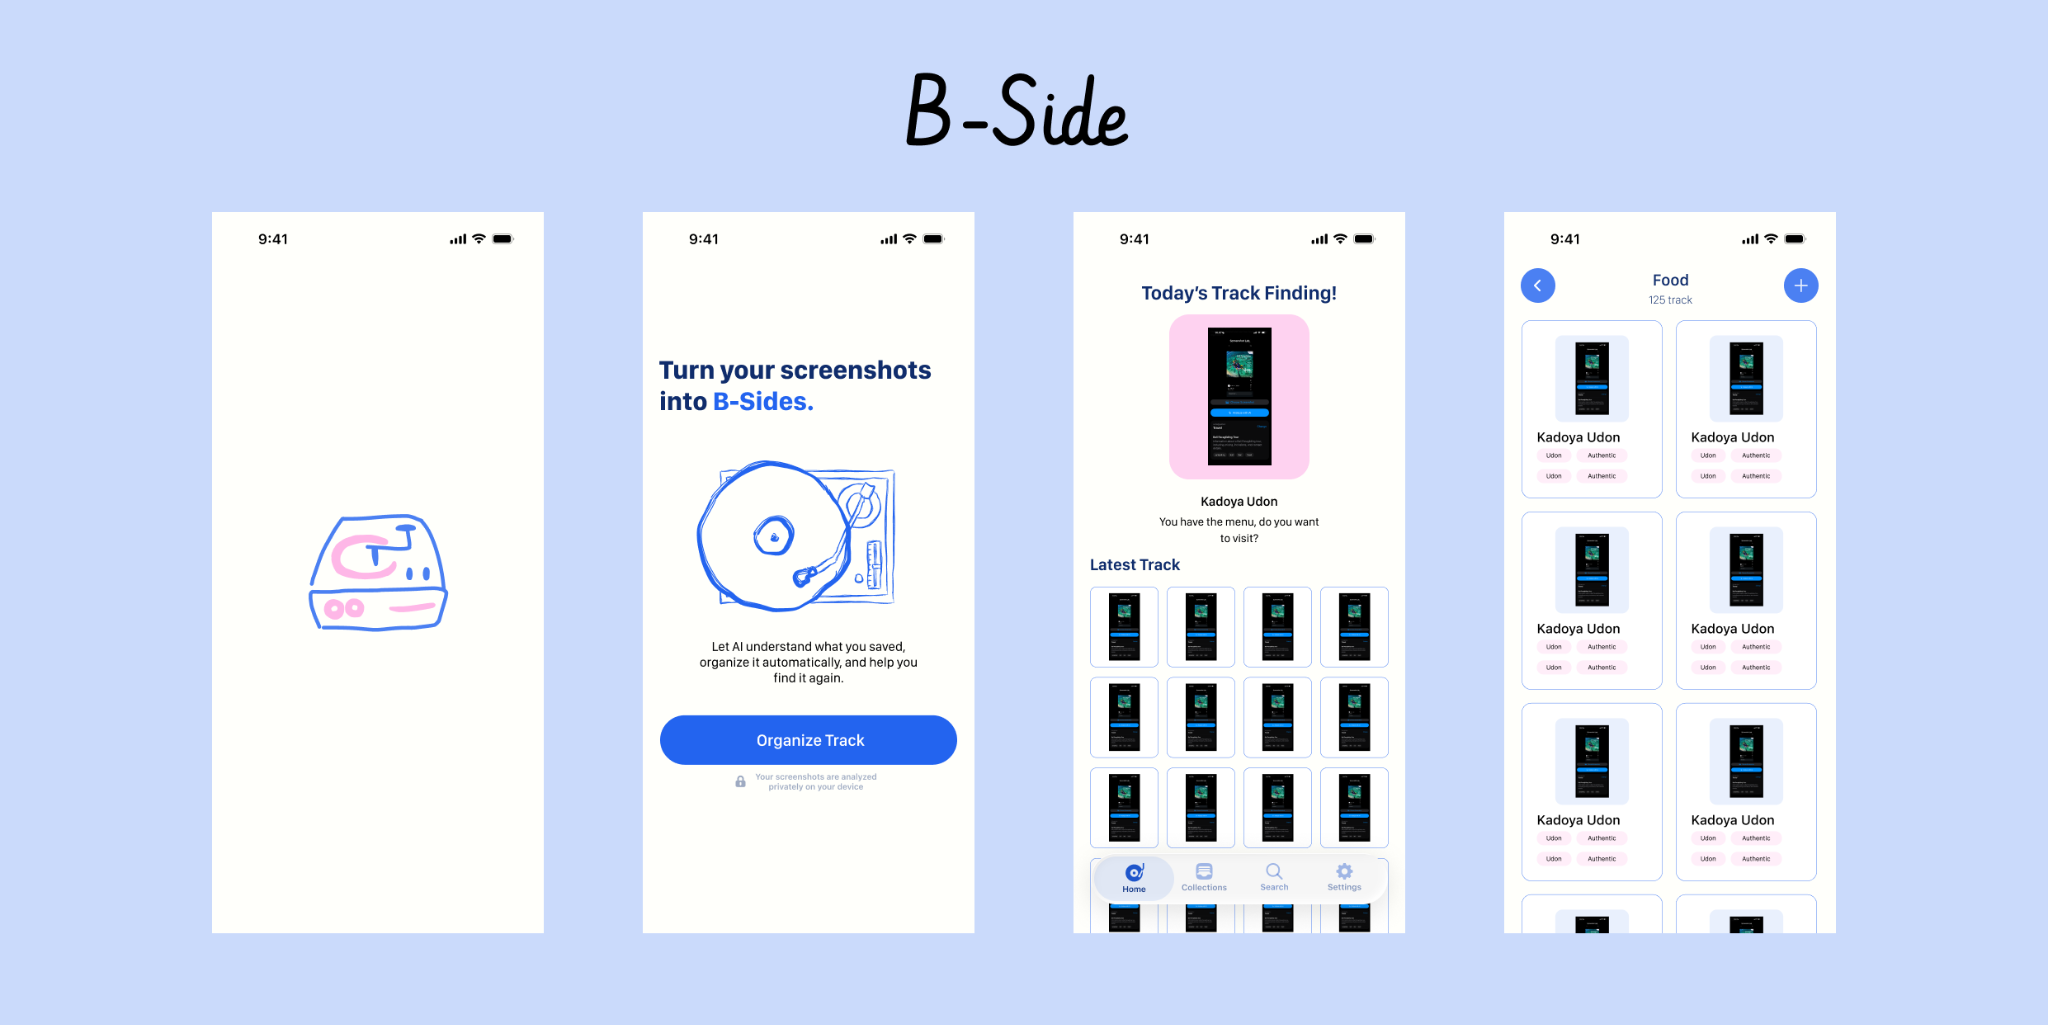
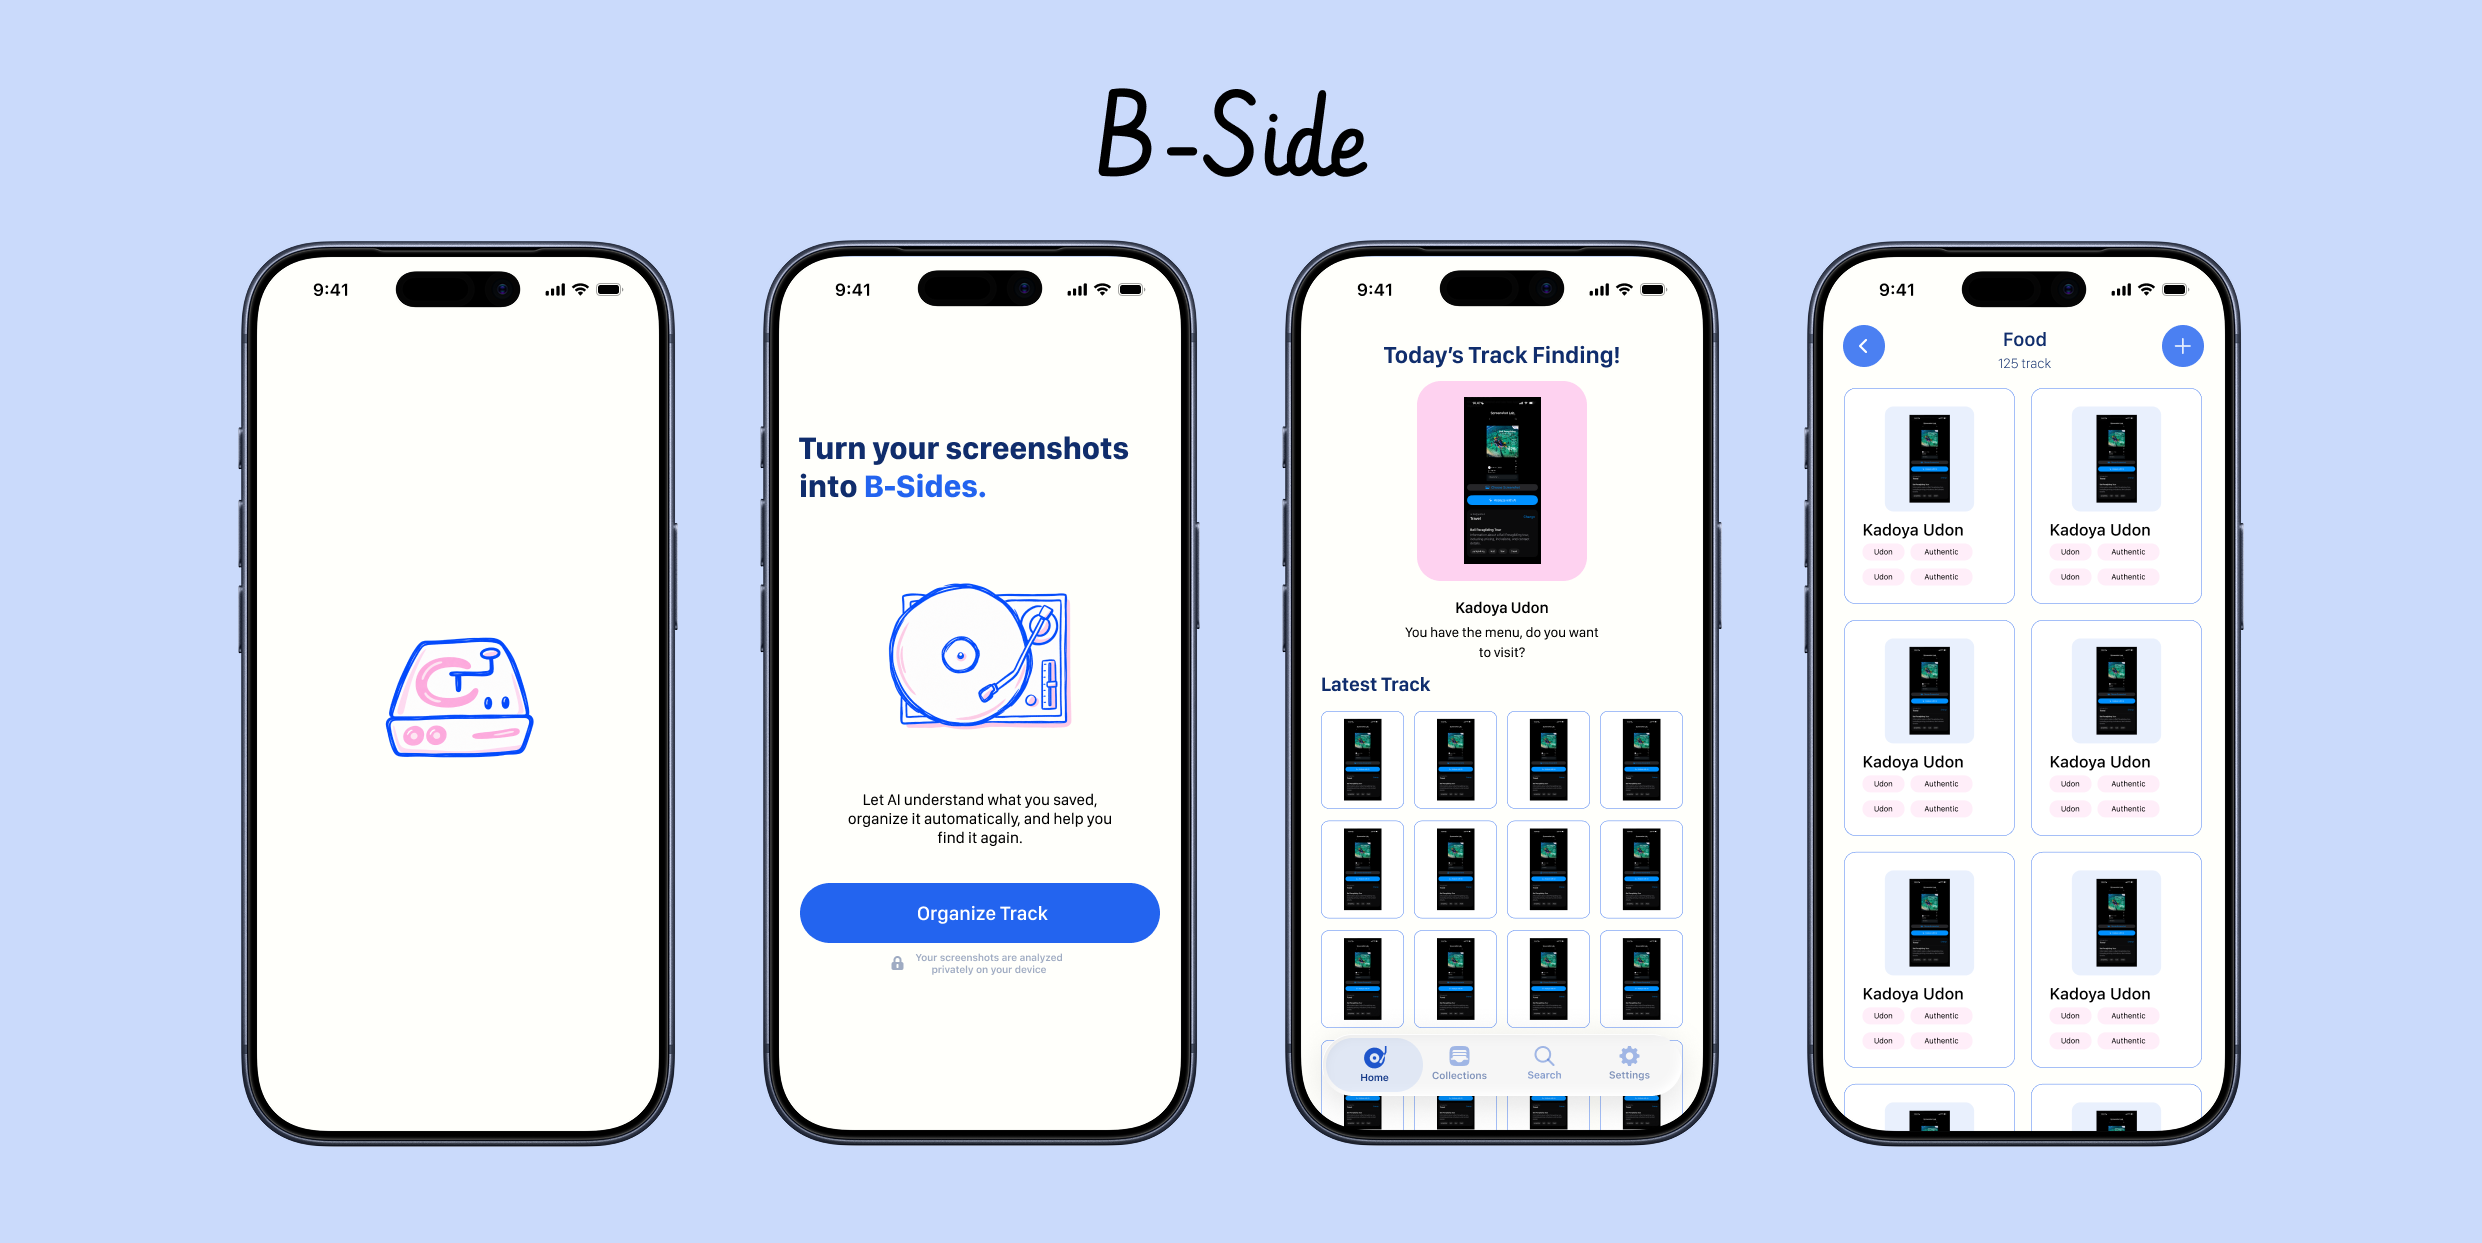
add bloom, refined cover b side and rawrndry

diff --git a/src/content/bloom.html b/src/content/bloom.html
@@ -1,0 +1,108 @@
+<h1>Bloom</h1>
+
+<div class="hero-showcase">
+  <img src="image/bloom/bloom-banner.png" alt="Bloom website concept showing the lavender landing page, flower mascot, and mobile well-being screens">
+</div>
+
+<div class="section-block">
+  <h2 class="section-title">Project Overview</h2>
+  <p>Bloom is a responsive postpartum mental well-being website concept for mothers in Indonesia. It brings together gentle emotional check-ins, a screening experience, progress tracking, calming activities, and ways to reach out for support in one welcoming space.</p>
+  <p>The concept uses the Edinburgh Postnatal Depression Scale (EPDS) as a future screening framework, but screening is not a diagnosis. The designed prototype presents a clearly labeled demonstration experience while a real clinical implementation would require a validated questionnaire, reviewed scoring, and appropriate referral and privacy safeguards.</p>
+  <p>I shaped the product direction, planned the core journeys, designed the screens in Figma with AI-assisted tools, and developed and iterated on the web prototype using Berrry.app.</p>
+</div>
+
+<div class="section-block">
+  <h2 class="section-title">The Problem</h2>
+  <div class="problem-box">
+    <h3>Emotional support should not end with a screening result</h3>
+    <p>After childbirth, mothers may experience exhaustion, unfamiliar emotional changes, or difficulty asking for help. A single questionnaire can raise awareness, but it does not automatically explain the next step or make everyday support easier to access.</p>
+  </div>
+  <p>The question behind Bloom was: how might a digital experience help a mother recognize how she feels, reflect on changes over time, and move from awareness toward practical and professional support without making her feel judged or diagnosed?</p>
+</div>
+
+<div class="section-block">
+  <h2 class="section-title">From Idea to Scope</h2>
+  <p>I developed Bloom around a connected journey rather than a one-time test: begin with a gentle check-in, revisit patterns, choose a supportive action, and know where to find human care. For the hackathon, I prioritized a coherent web experience with a manageable set of meaningful features.</p>
+  <div class="process-grid">
+    <div class="process-step">
+      <div class="step-header"><span class="step-number">1</span><h3 class="step-title">Problem &amp; framing</h3></div>
+      <p class="step-desc">Defined the gap between screening awareness and ongoing, accessible emotional support for postpartum mothers.</p>
+    </div>
+    <div class="process-step">
+      <div class="step-header"><span class="step-number">2</span><h3 class="step-title">Core experience</h3></div>
+      <p class="step-desc">Mapped a journey linking feelings check-in, My Journey history, Calm Corner, Bloom Buddy, and professional support.</p>
+    </div>
+    <div class="process-step">
+      <div class="step-header"><span class="step-number">3</span><h3 class="step-title">UI/UX design</h3></div>
+      <p class="step-desc">Created desktop and mobile layouts with a flower mascot, spacious cards, reassuring copy, and a soft pastel visual system.</p>
+    </div>
+    <div class="process-step">
+      <div class="step-header"><span class="step-number">4</span><h3 class="step-title">AI-assisted build</h3></div>
+      <p class="step-desc">Translated the Figma direction into a Berrry web prototype, then iterated on navigation, persistence, interaction, and feature scope.</p>
+    </div>
+  </div>
+</div>
+
+<div class="section-block">
+  <h2 class="section-title">Experience Design</h2>
+  <p>Bloom's core path starts with how the mother feels today. From there, the interface connects a gentle screening demonstration with saved-history concepts and everyday activities, while keeping professional help within reach.</p>
+  <div class="experience-grid">
+    <div class="experience-item"><span class="experience-count">01</span><h3>Check in</h3><p>Express a feeling or explore the non-diagnostic screening flow.</p></div>
+    <div class="experience-item"><span class="experience-count">02</span><h3>Reflect</h3><p>Look back on dated emotional check-ins and assessment history.</p></div>
+    <div class="experience-item"><span class="experience-count">03</span><h3>Take a pause</h3><p>Try breathing, grounding, or other low-effort calming tools.</p></div>
+    <div class="experience-item"><span class="experience-count">04</span><h3>Reach out</h3><p>Find human support or prepare to ask someone for help.</p></div>
+  </div>
+</div>
+
+<div class="section-block">
+  <h2 class="section-title">Interface Direction</h2>
+  <p>The desktop screens combine a lavender hero, small flower icons, rounded feature cards, and a clear navigation system. The screening page intentionally feels like part of the same supportive experience rather than a separate clinical form.</p>
+  <figure class="case-visual">
+    <img src="image/bloom/bloom-desktop-exploration.png" alt="Bloom desktop Figma screens showing the landing page, mood dashboard, and feelings check-in questionnaire" loading="lazy">
+    <figcaption>Desktop exploration: welcome, dashboard, and screening. <a href="image/bloom/bloom-desktop-exploration.png" target="_blank" rel="noopener noreferrer">View full-size image ↗</a></figcaption>
+  </figure>
+  <p>My Journey, Calm Corner, and Support extend the same visual language with a rounded-bar feelings chart, interactive breathing concept, and a clearly separated urgent-help panel.</p>
+  <figure class="case-visual">
+    <img src="image/bloom/bloom-core-features.png" alt="Bloom desktop Figma screens for mood history, breathing and calming activities, and support resources" loading="lazy">
+    <figcaption>Core feature screens: reflection, regulation, and support. <a href="image/bloom/bloom-core-features.png" target="_blank" rel="noopener noreferrer">View full-size image ↗</a></figcaption>
+  </figure>
+</div>
+
+<div class="section-block">
+  <h2 class="section-title">Responsive Experience</h2>
+  <p>Mobile is not simply a smaller desktop layout. The welcome screen gives the mascot room to introduce Bloom, while subsequent pages prioritize one task at a time and use five persistent navigation destinations: Home, Check, Journal, Calm, and Help.</p>
+  <figure class="case-visual">
+    <img src="image/bloom/bloom-mobile-screens.png" alt="Six Bloom mobile Figma screens: welcome, dashboard, screening, journey, calm corner, and support" loading="lazy">
+    <figcaption>Mobile screens designed for simple, repeatable check-ins. <a href="image/bloom/bloom-mobile-screens.png" target="_blank" rel="noopener noreferrer">View full-size image ↗</a></figcaption>
+  </figure>
+</div>
+
+<div class="section-block">
+  <h2 class="section-title">Key Features &amp; Product Decisions</h2>
+  <ul>
+    <li><strong>Screening without diagnosis:</strong> Design the EPDS-inspired pathway to provide context and next steps, not a fixed medical verdict. The prototype uses a demonstration questionnaire rather than claiming clinical validation.</li>
+    <li><strong>Reflection over time:</strong> Separate daily mood check-ins from formal screening history, so each record has a clear meaning and mothers can review previous entries.</li>
+    <li><strong>Low-effort calming tools:</strong> Bring breathing, grounding, fidget interactions, and gentle audio concepts into one Calm Corner that can be used whenever someone wants a pause.</li>
+    <li><strong>Bloom Buddy:</strong> Explore a focused AI conversation companion for postpartum feelings and user-selected needs, with boundaries against diagnosis and an easy route to human support.</li>
+    <li><strong>Support as an action:</strong> Make it easier to prepare for a professional conversation or ask a trusted person for practical help, instead of ending the journey at a score.</li>
+    <li><strong>Careful data handling:</strong> Treat mood entries and screening responses as sensitive information. Persistent accounts, secure histories, consent, and deletion are important implementation considerations rather than assumed guarantees.</li>
+    <li><strong>Indonesia-first approach:</strong> Design for Bahasa Indonesia and English, familiar healthcare pathways, and culturally appropriate, nonjudgmental language.</li>
+  </ul>
+</div>
+
+<div class="section-block">
+  <h2 class="section-title">Prototype &amp; Next Steps</h2>
+  <p>The live website is an evolving AI-assisted prototype. It demonstrates Bloom's connected design direction, while clinical screening validation, secure personal-data handling, and the reliability of all live integrations need separate testing before the product could be used as a real healthcare service.</p>
+  <p>The next priorities are reliable saved screening history, clearer distinction between mood data and screening results, end-to-end testing across accounts and devices, and careful safety review of Bloom Buddy and help-seeking flows.</p>
+  <p><a class="project-link" href="https://bloom-postpartum-well-being.berrry.app/" target="_blank" rel="noopener noreferrer">Explore the Bloom web prototype ↗</a></p>
+</div>
+
+<div class="section-block">
+  <h2 class="section-title">My Role</h2>
+  <p>Product concept, feature scoping, user-flow planning, UI/UX design direction, Figma screen development with AI-assisted tools, and iterative web prototyping with Berrry.app. I worked across product decisions, visual consistency, and feature behavior.</p>
+</div>
+
+<div class="section-block">
+  <h2 class="section-title">Tools &amp; Technologies</h2>
+  <div class="tech-list"><span class="tech-tag">Figma</span><span class="tech-tag">Berrry.app</span><span class="tech-tag">AI-Assisted Development</span><span class="tech-tag">Responsive Web Design</span><span class="tech-tag">Product Design</span><span class="tech-tag">Conversational AI Concept</span></div>
+</div>

diff --git a/src/styles.css b/src/styles.css
@@ -3,7 +3,7 @@
 @theme {
   --font-sans: "Inter", sans-serif;
   --font-display: "Space Grotesk", sans-serif;
-  --color-paper: #f7f5f0;
+  --color-paper: #fafafa;
   --color-ink: #171717;
   --color-ink-muted: #66655f;
   --color-line: #d9d6cf;
